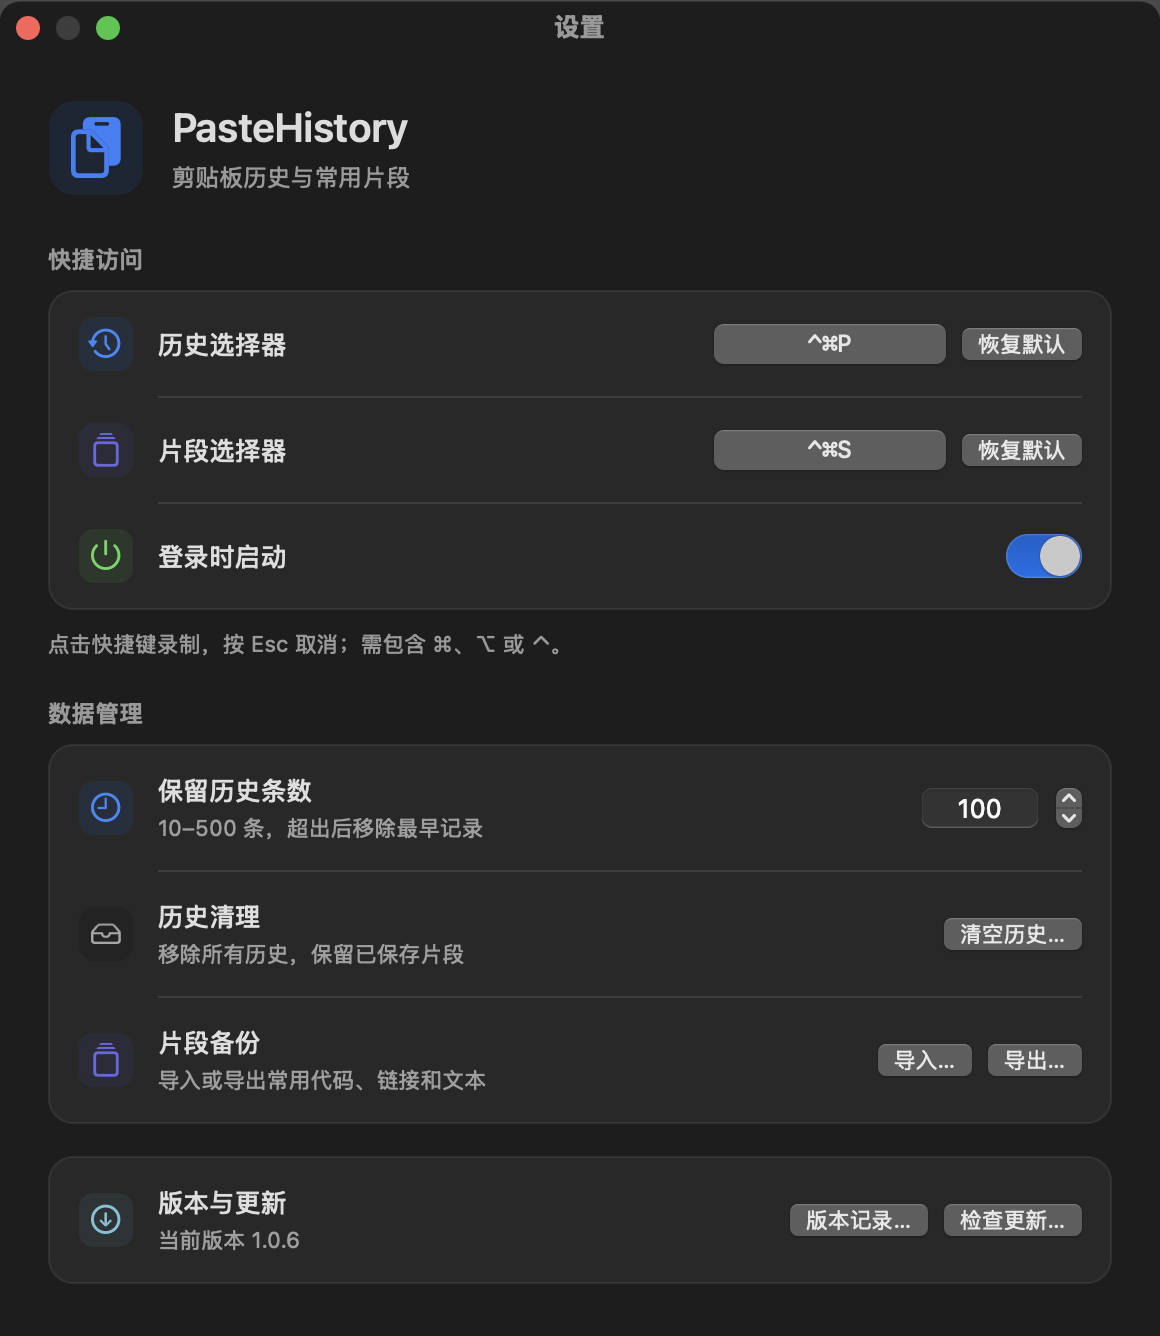
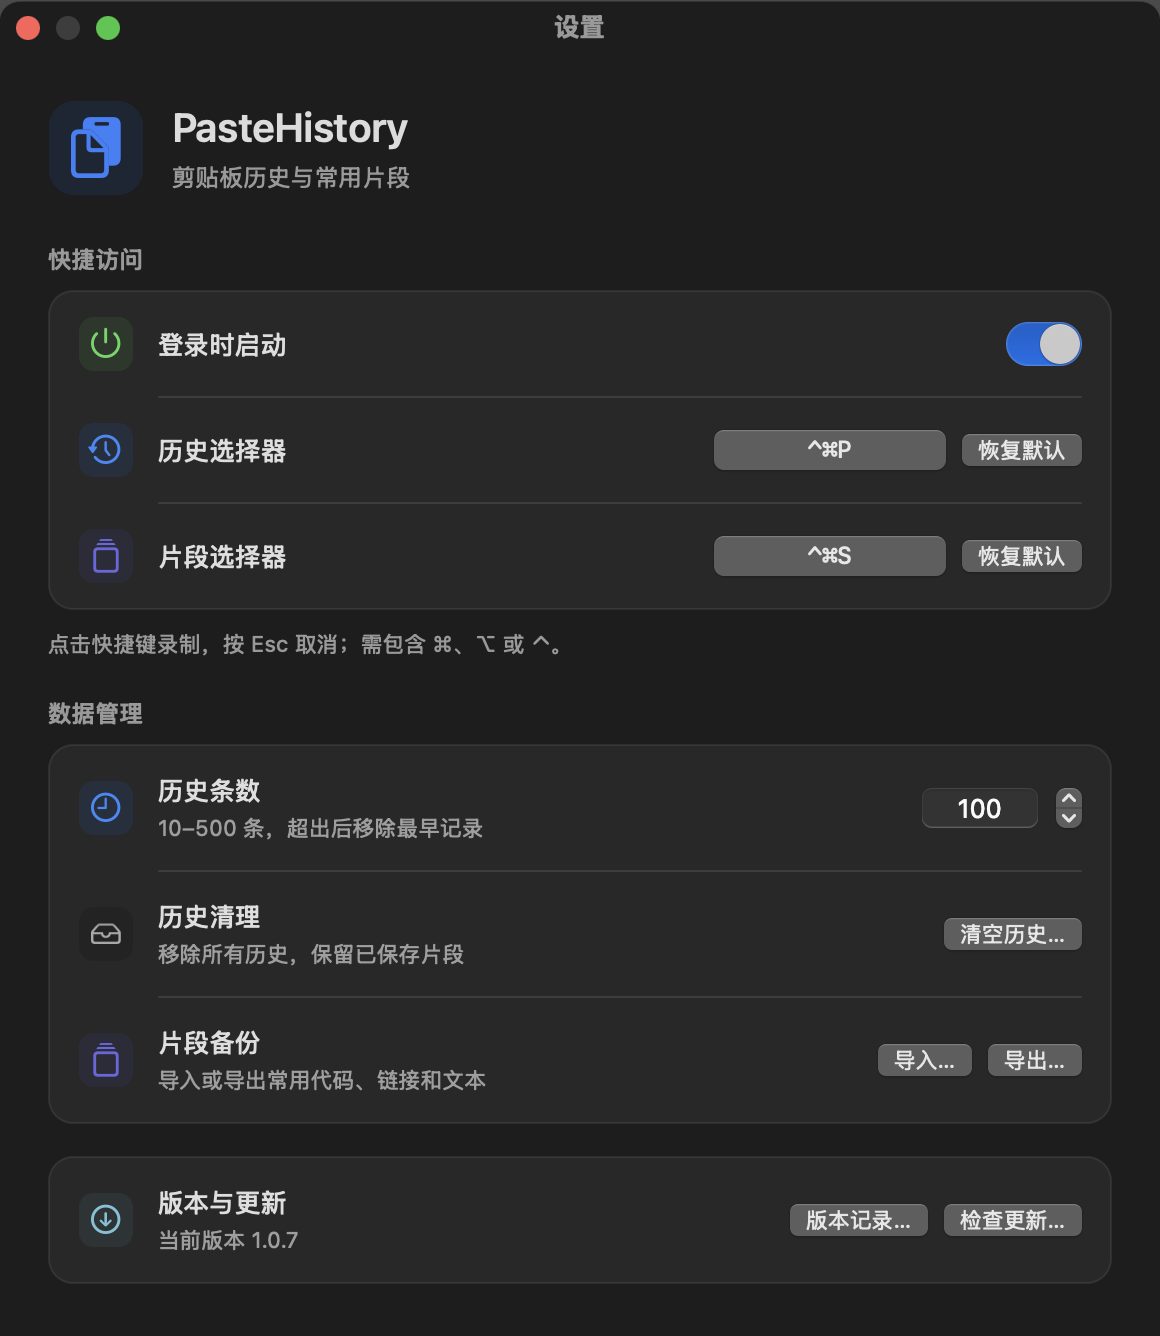
Align menu shortcuts and tidy settings for v1.0.7

diff --git a/Sources/App/AppDelegate.swift b/Sources/App/AppDelegate.swift
@@ -163,20 +163,6 @@ final class AppDelegate: NSObject, NSApplicationDelegate, NSMenuDelegate {
         AutoPaste.deliver(after: delay)
     }
 
-    private func menuHeaderTitle(primary: String, hotkey: String, count: Int) -> NSAttributedString {
-        let s = NSMutableAttributedString()
-        s.append(NSAttributedString(string: primary,
-            attributes: [.font: NSFont.systemFont(ofSize: 13, weight: .semibold),
-                         .foregroundColor: NSColor.labelColor]))
-        s.append(NSAttributedString(string: "  \(count)",
-            attributes: [.font: NSFont.systemFont(ofSize: 11),
-                         .foregroundColor: NSColor.secondaryLabelColor]))
-        s.append(NSAttributedString(string: "      \(hotkey)",
-            attributes: [.font: NSFont.monospacedSystemFont(ofSize: 11, weight: .regular),
-                         .foregroundColor: NSColor.secondaryLabelColor]))
-        return s
-    }
-
     private func makeMenuAction(title: String, symbol: String, action: Selector) -> NSMenuItem {
         let mi = NSMenuItem(title: title, action: action, keyEquivalent: "")
         mi.target = self
@@ -330,10 +316,12 @@ final class AppDelegate: NSObject, NSApplicationDelegate, NSMenuDelegate {
 
         menu.removeAllItems()
 
+        let headerTitles = menuHeaderTitles([
+            (title: "历史选择器", count: store.items.count, hotkey: HotKeyConfig.history.display),
+            (title: "片段选择器", count: snippetStore.items.count, hotkey: HotKeyConfig.snippet.display),
+        ])
         let header = NSMenuItem(title: "", action: #selector(summonHistory), keyEquivalent: "")
-        header.attributedTitle = menuHeaderTitle(primary: "历史选择器",
-                                                 hotkey: HotKeyConfig.history.display,
-                                                 count: store.items.count)
+        header.attributedTitle = headerTitles[0]
         header.image = menuSymbol("clock.arrow.circlepath", pointSize: 16, weight: .medium)
         header.target = self
         menu.addItem(header)
@@ -360,9 +348,7 @@ final class AppDelegate: NSObject, NSApplicationDelegate, NSMenuDelegate {
 
         let snippetHeader = NSMenuItem(title: "", action: #selector(openSnippetPickerWindow),
                                        keyEquivalent: "")
-        snippetHeader.attributedTitle = menuHeaderTitle(primary: "片段选择器",
-                                                        hotkey: HotKeyConfig.snippet.display,
-                                                        count: snippetStore.items.count)
+        snippetHeader.attributedTitle = headerTitles[1]
         snippetHeader.image = menuSymbol("square.stack",
                                          pointSize: 16, weight: .medium)
         snippetHeader.target = self

diff --git a/Sources/UI/Settings.swift b/Sources/UI/Settings.swift
@@ -119,11 +119,11 @@ final class SettingsWindowController: NSObject, NSWindowDelegate, NSTextFieldDel
         autostartSwitch.setAccessibilityLabel("登录时启动")
 
         let accessGroup = makeGroup([
+            formRow("登录时启动", symbol: "power", color: .systemGreen, trailing: [autostartSwitch]),
+            hSeparator(),
             formRow("历史选择器", symbol: "clock.arrow.circlepath", trailing: [recordButton, smallButton("恢复默认", #selector(resetHistoryDefault))]),
             hSeparator(),
             formRow("片段选择器", symbol: "square.stack", color: .systemIndigo, trailing: [snippetSummonButton, smallButton("恢复默认", #selector(resetSnippetSummonDefault))]),
-            hSeparator(),
-            formRow("登录时启动", symbol: "power", color: .systemGreen, trailing: [autostartSwitch]),
         ])
 
         maxItemsField = NSTextField()
@@ -132,7 +132,7 @@ final class SettingsWindowController: NSObject, NSWindowDelegate, NSTextFieldDel
         maxItemsField.alignment = .center
         maxItemsField.bezelStyle = .roundedBezel
         maxItemsField.delegate = self
-        maxItemsField.setAccessibilityLabel("保留历史条数")
+        maxItemsField.setAccessibilityLabel("历史条数")
         maxItemsField.widthAnchor.constraint(equalToConstant: 60).isActive = true
 
         maxItemsStepper = NSStepper()
@@ -154,7 +154,7 @@ final class SettingsWindowController: NSObject, NSWindowDelegate, NSTextFieldDel
         snippetActions.spacing = 8
 
         let dataGroup = makeGroup([
-            formRow("保留历史条数", detail: "10–500 条，超出后移除最早记录", symbol: "clock", trailing: [maxItemsField, maxItemsStepper]),
+            formRow("历史条数", detail: "10–500 条，超出后移除最早记录", symbol: "clock", trailing: [maxItemsField, maxItemsStepper]),
             hSeparator(),
             formRow("历史清理", detail: "移除所有历史，保留已保存片段", symbol: "tray", color: .secondaryLabelColor, trailing: [clearHistoryButton]),
             hSeparator(),

diff --git a/Sources/UI/MenuHeader.swift b/Sources/UI/MenuHeader.swift
@@ -1,0 +1,32 @@
+import Cocoa
+
+// Both menu headings share a trailing shortcut column, independent of count or key length.
+func menuHeaderTitles(_ headers: [(title: String, count: Int, hotkey: String)]) -> [NSAttributedString] {
+    let hotkeyAttributes: [NSAttributedString.Key: Any] = [
+        .font: NSFont.monospacedSystemFont(ofSize: 11, weight: .regular),
+        .foregroundColor: NSColor.secondaryLabelColor,
+    ]
+    let labels = headers.map { header in
+        let label = NSMutableAttributedString(string: header.title, attributes: [
+            .font: NSFont.systemFont(ofSize: 13, weight: .semibold),
+            .foregroundColor: NSColor.labelColor,
+        ])
+        label.append(NSAttributedString(string: "  \(header.count)", attributes: [
+            .font: NSFont.systemFont(ofSize: 11),
+            .foregroundColor: NSColor.secondaryLabelColor,
+        ]))
+        return label
+    }
+    let shortcuts = headers.map { NSAttributedString(string: $0.hotkey, attributes: hotkeyAttributes) }
+    let columnEnd = ceil((labels.map { $0.size().width }.max() ?? 0) + 28 +
+                         (shortcuts.map { $0.size().width }.max() ?? 0))
+    let paragraph = NSMutableParagraphStyle()
+    paragraph.tabStops = [NSTextTab(textAlignment: .right, location: columnEnd)]
+
+    return zip(labels, shortcuts).map { label, shortcut in
+        label.append(NSAttributedString(string: "\t", attributes: hotkeyAttributes))
+        label.append(shortcut)
+        label.addAttribute(.paragraphStyle, value: paragraph, range: NSRange(location: 0, length: label.length))
+        return label
+    }
+}

diff --git a/CHANGELOG.md b/CHANGELOG.md
@@ -1,5 +1,11 @@
 # 版本记录
 
+## [1.0.7] - 2026-09-12
+
+- 将“登录时启动”移到设置页“快捷访问”分组的首项。
+- 将“保留历史条数”简化为“历史条数”，同步无障碍标签与设置截图。
+- 修复菜单中两个选择器的快捷键对齐：共用右对齐位置，不再随记录数量位数或快捷键长度变化而错位。
+
 ## [1.0.6] - 2026-09-11
 
 - 优化原生界面层次：采用材质工具栏，统一字体、图标、圆角与留白，突出列表选中项和键盘焦点。
